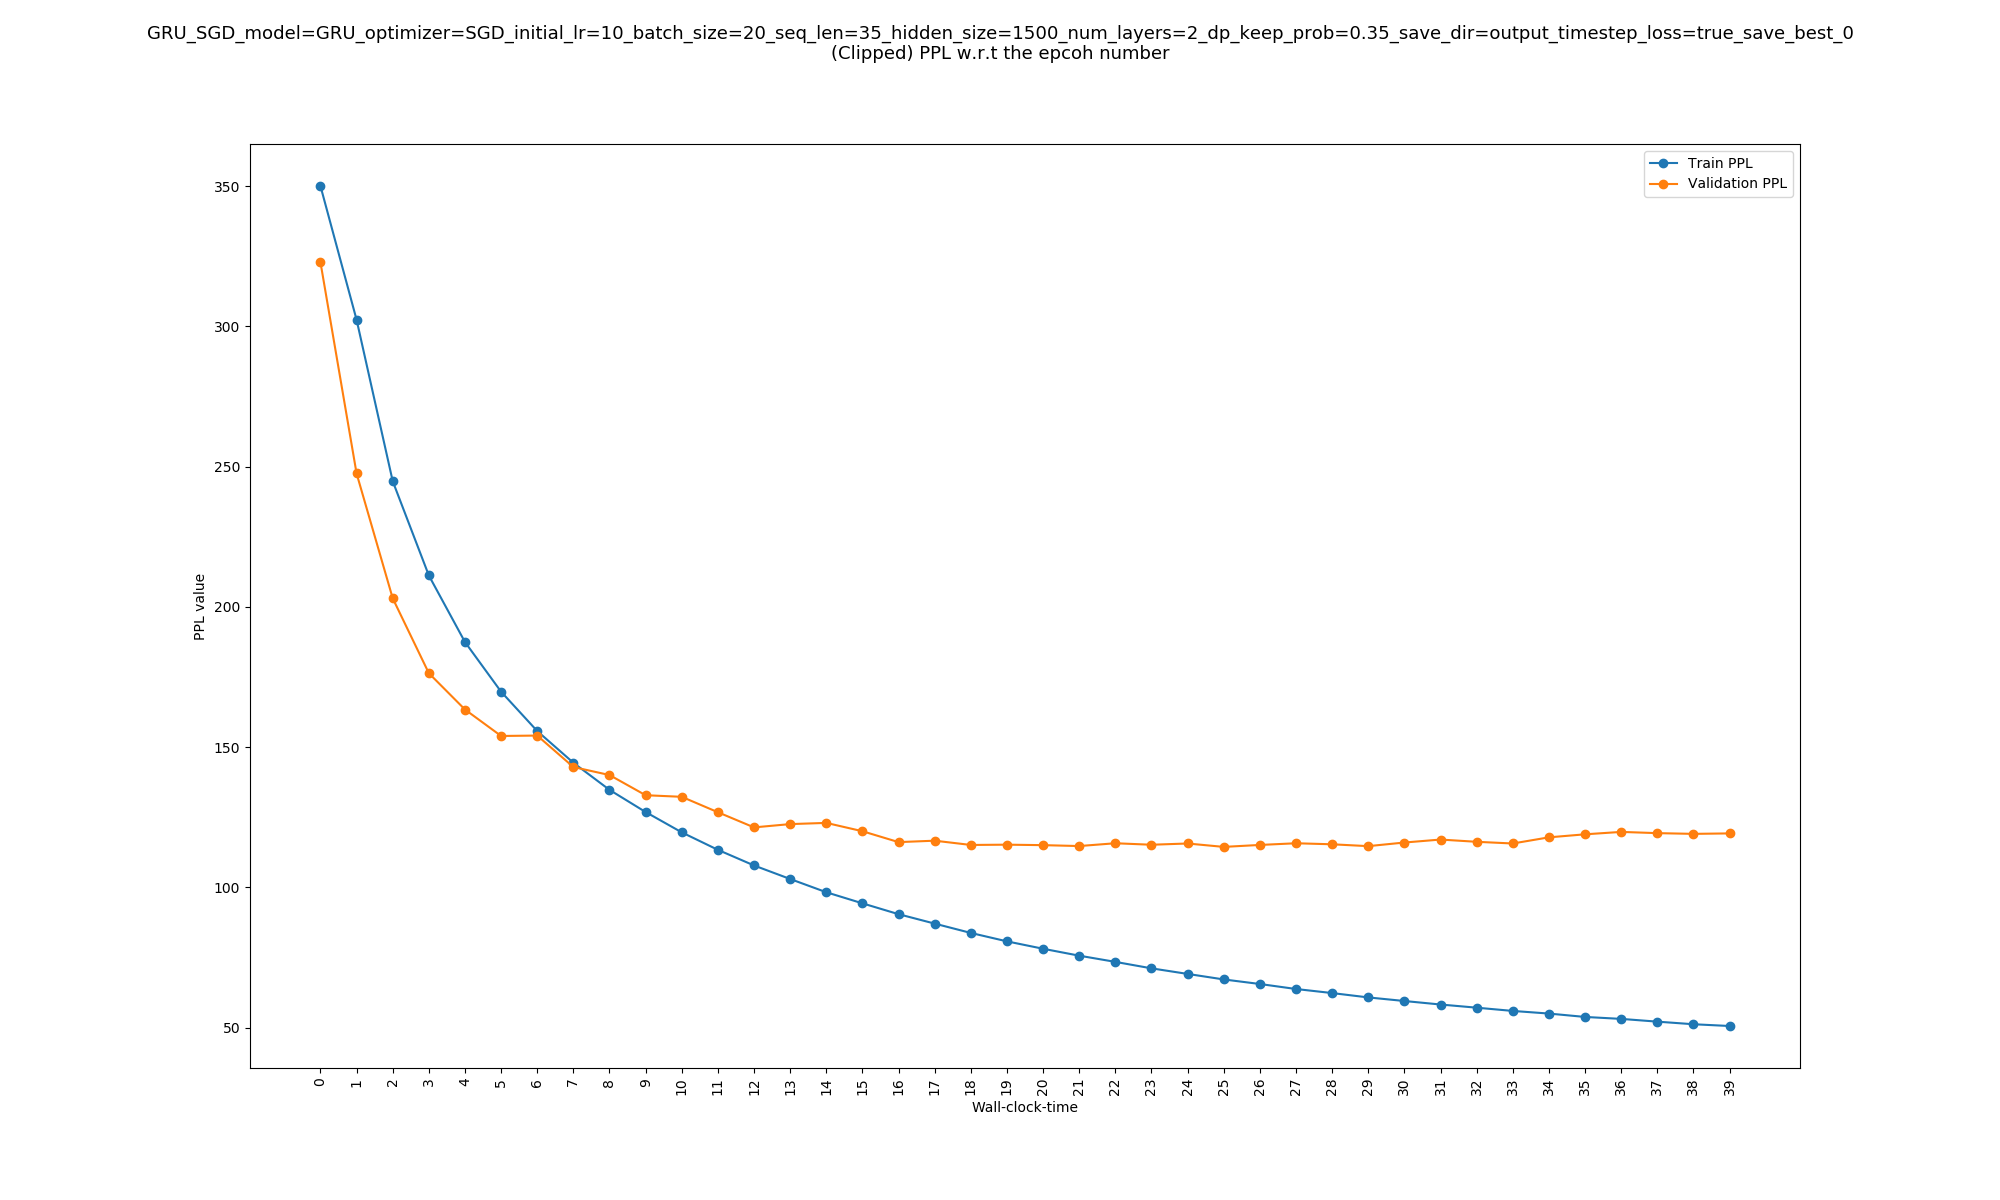
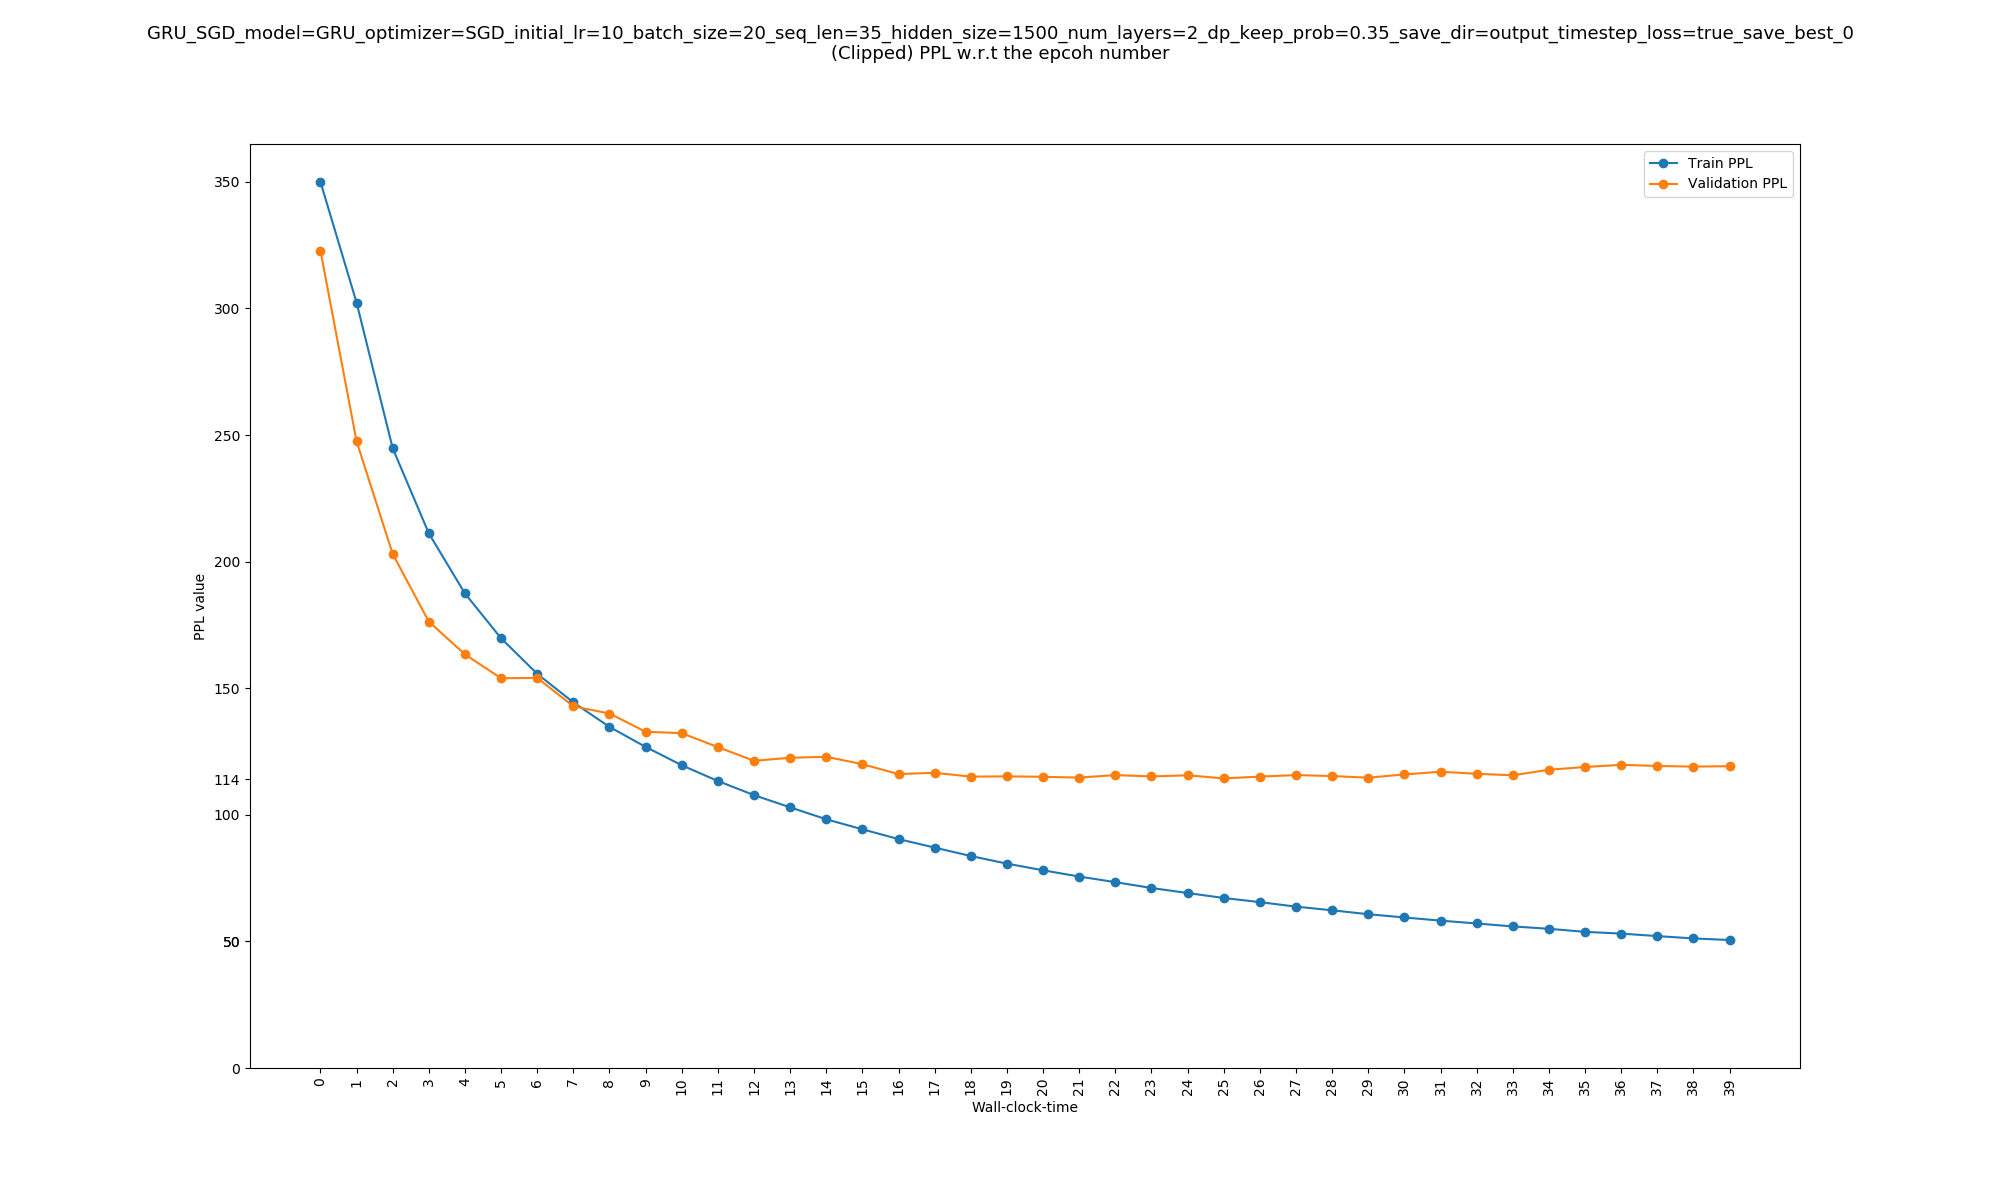
The visualization

diff --git a/visualization.py b/visualization.py
@@ -22,6 +22,7 @@ def plots(train_losses, val_losses, train_ppls, val_ppls, epoch_times, experimen
     val_losses = np.array(val_losses)
     temp = len(train_losses)/40
     temp2 = len(val_losses)/40
+    ytickss = np.append(np.array([np.min(val_ppls), np.min(train_ppls)],dtype=np.int), np.arange(0, 400, 50))
 
     plt.figure(1, figsize=(20, 12))
     train_losses_index = [(i % temp) == (temp-1 ) for i in range(len(train_losses))]
@@ -41,6 +42,7 @@ def plots(train_losses, val_losses, train_ppls, val_ppls, epoch_times, experimen
     plt.plot(epoch_times, np.clip(val_ppls, 50, 350), label="Validation PPL" , marker='o' )
     plt.xlabel("Wall-clock-time")
     plt.xticks(epoch_times,rotation='vertical')
+    plt.yticks(ytickss)
     plt.ylabel("PPL value")
     plt.suptitle(experiment + '\n' + '(Clipped) PPL between w.r.t the wall-clock-time', fontsize=13)
     plt.legend()
@@ -52,6 +54,7 @@ def plots(train_losses, val_losses, train_ppls, val_ppls, epoch_times, experimen
     plt.plot(epochs, np.clip(val_ppls, 50, 350), label="Validation PPL", marker='o' )
     plt.xlabel("Wall-clock-time")
     plt.xticks(epochs,rotation='vertical')
+    plt.yticks(ytickss)
     plt.ylabel("PPL value")
     plt.suptitle(experiment + '\n' + '(Clipped) PPL w.r.t the epcoh number', fontsize=13)
     plt.legend()
@@ -87,7 +90,7 @@ def files_exits(directory):
     return False 
 
 def main():
-    directories = glob.glob("output/*")
+    directories = glob.glob("results/*")
     for directory in directories:
         if(files_exits(directory)):
             lc_path, log_path, experiment = parse_args(directory)
